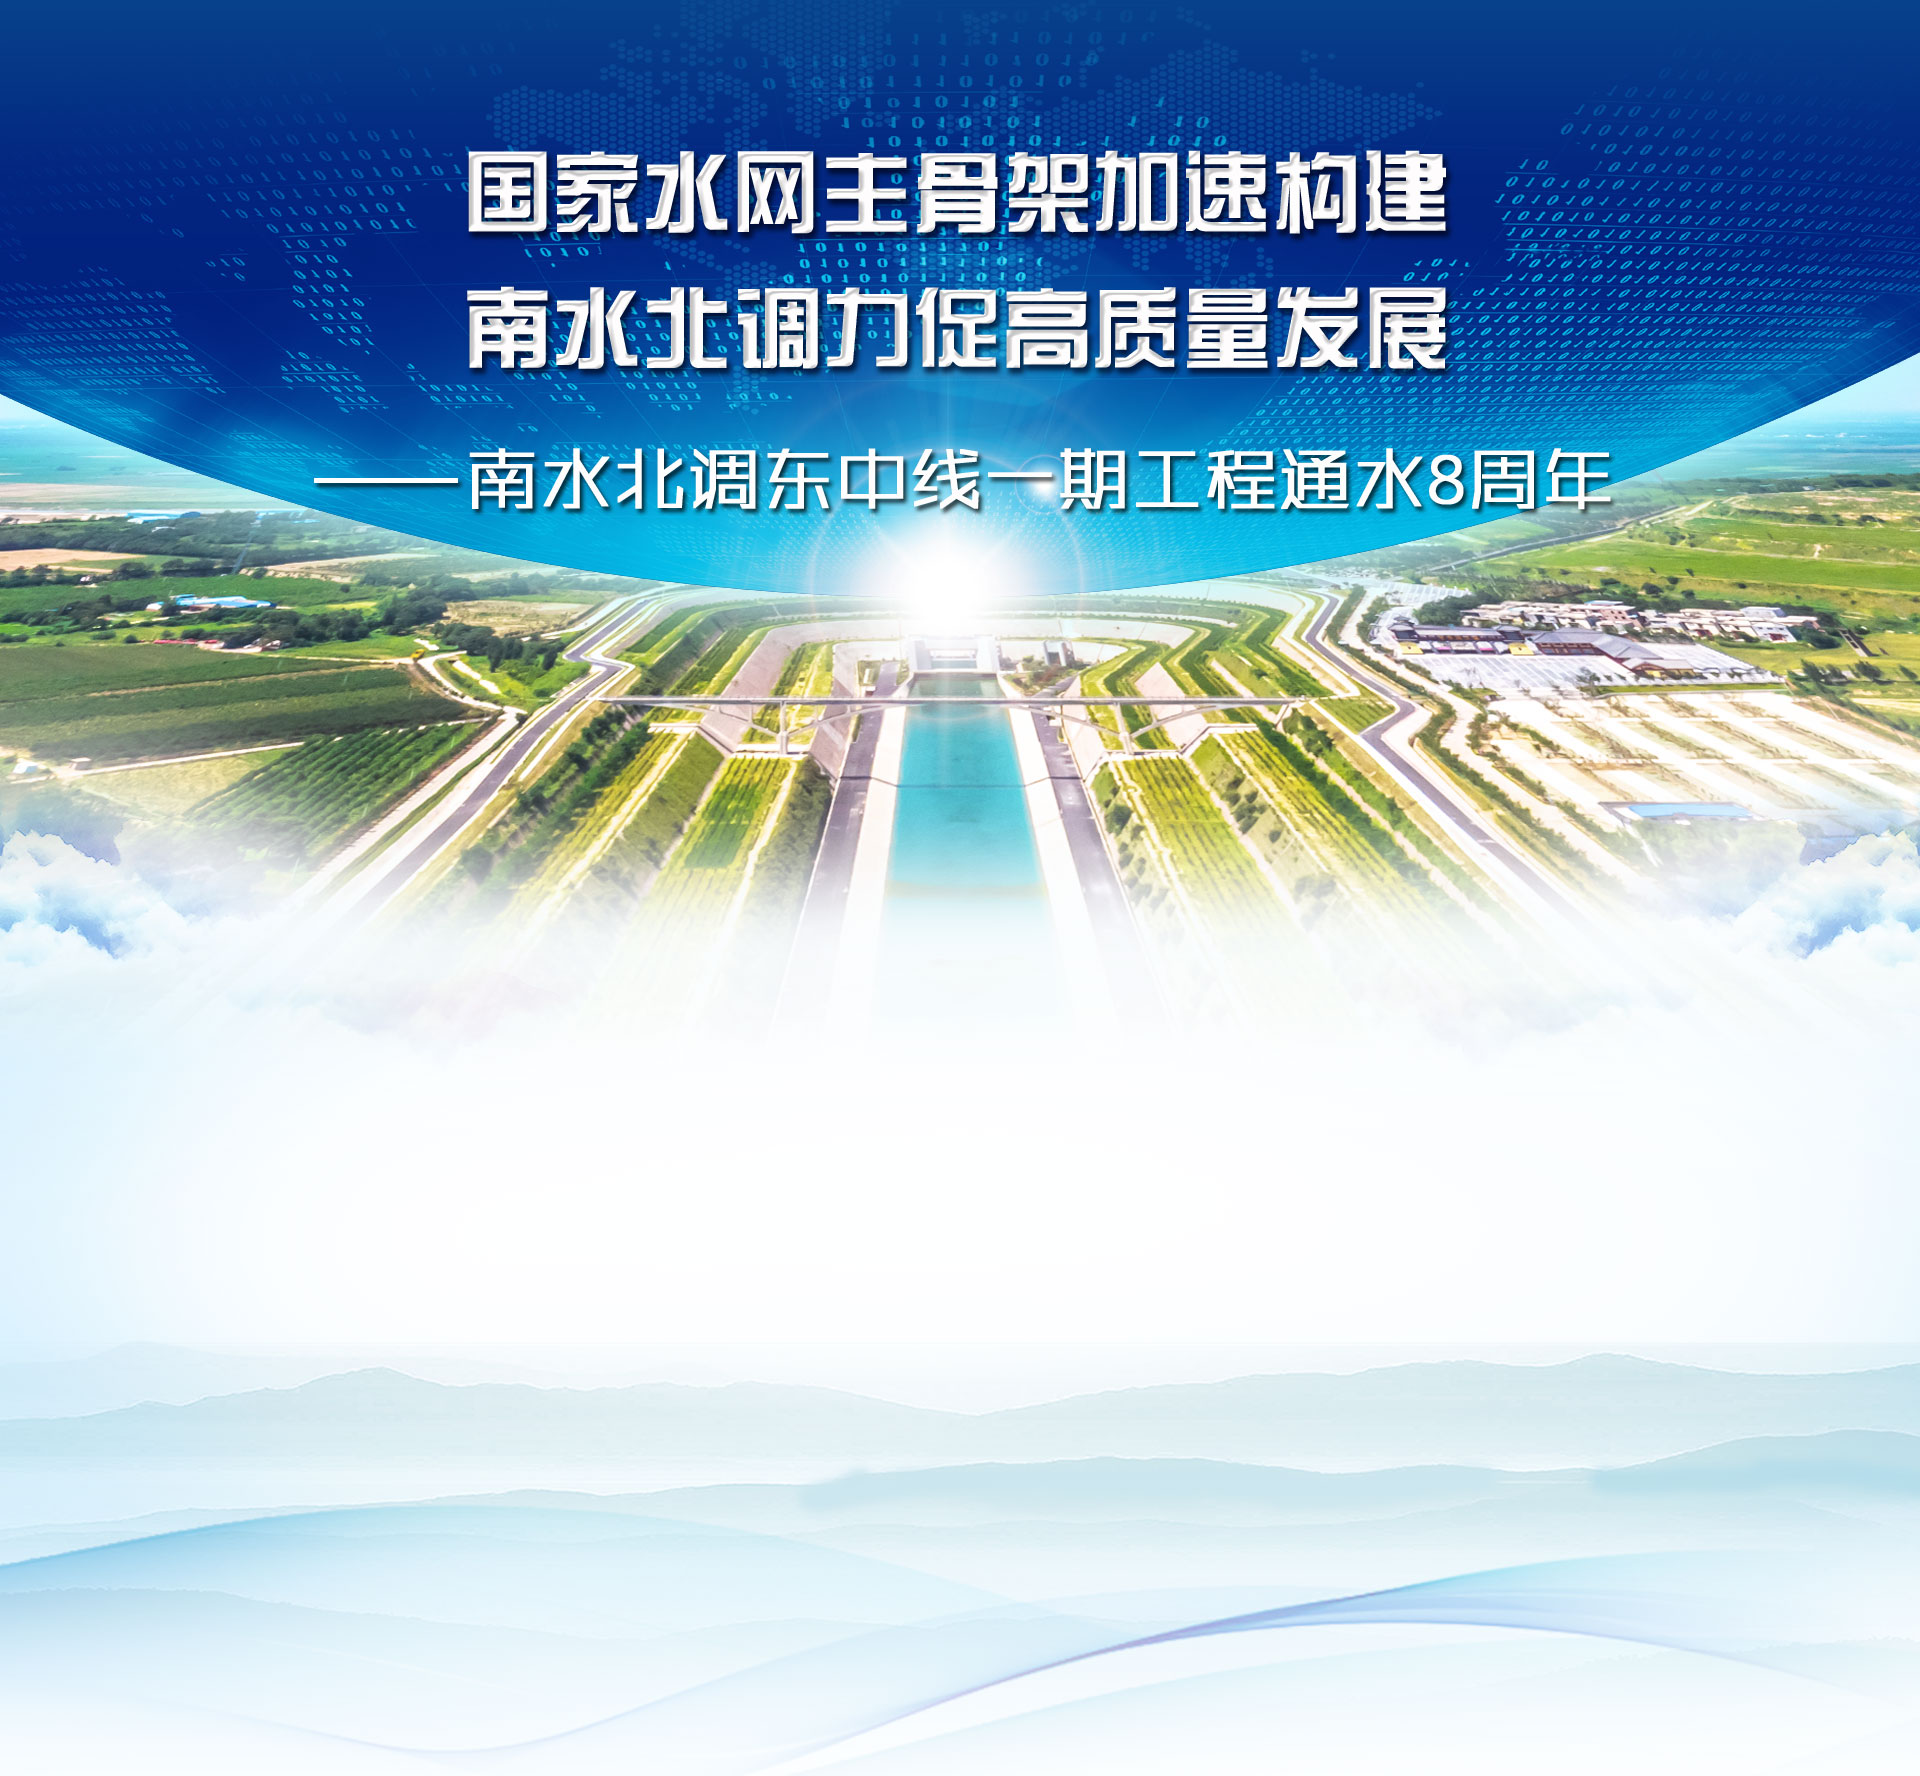
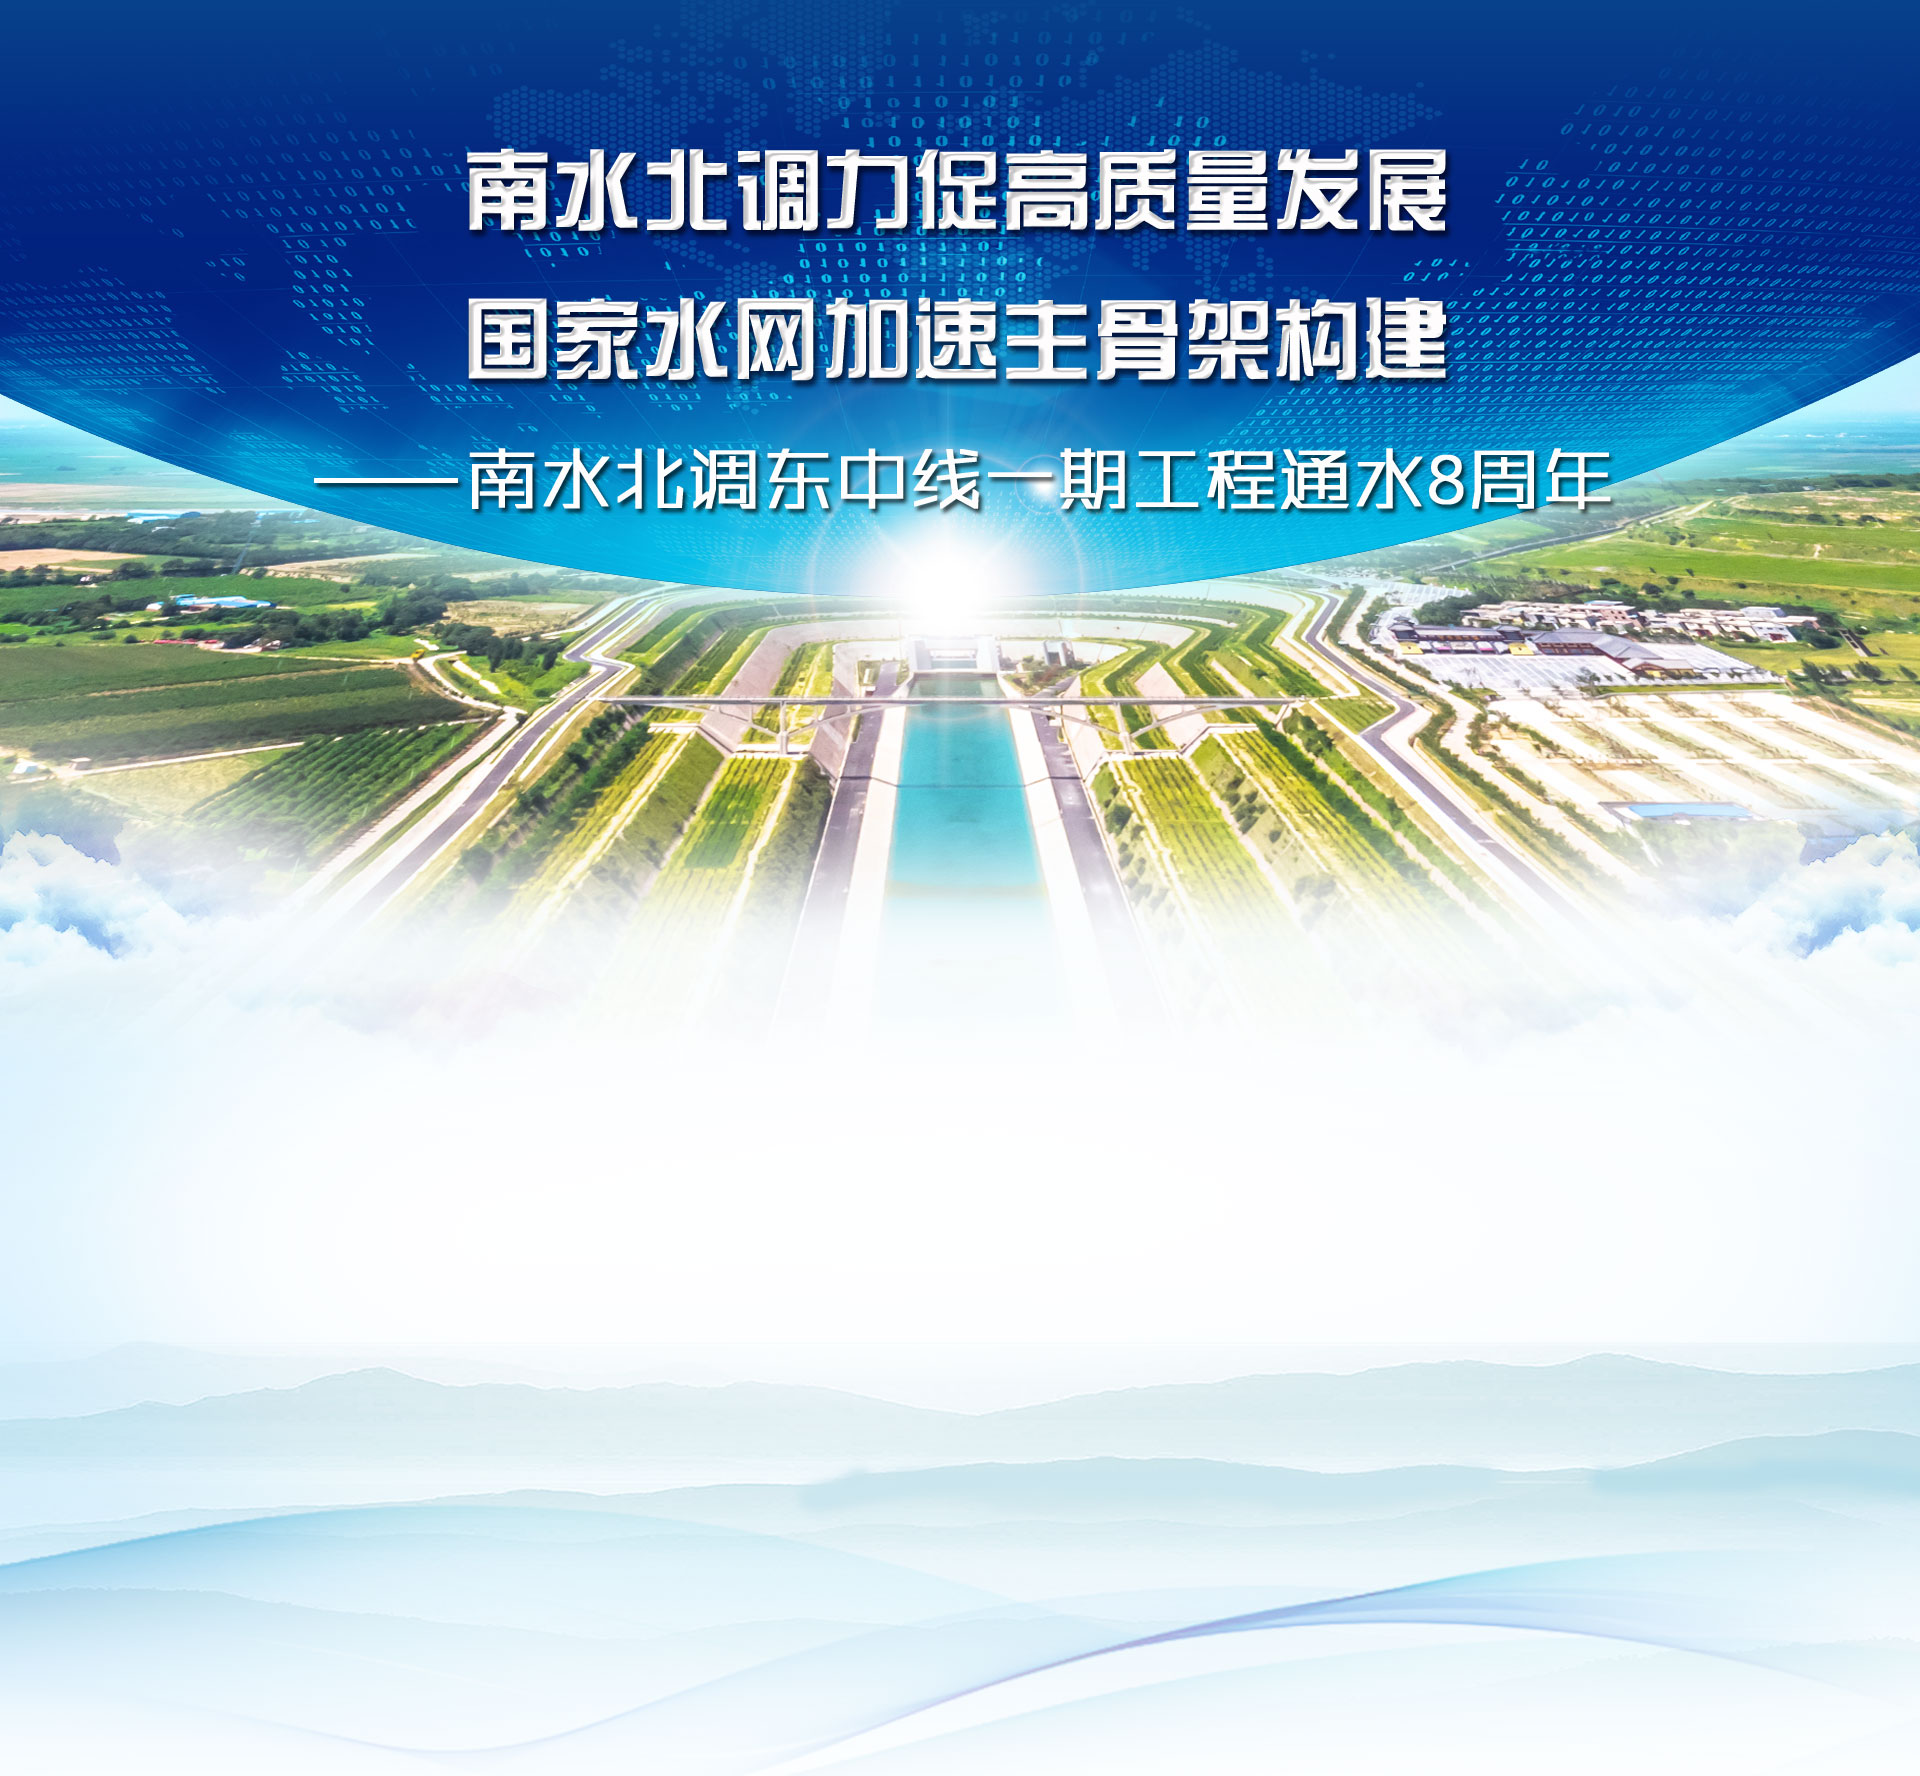
修改

Changed region(s): [[0.25, 0.0619, 0.7812, 0.2168]]

diff --git a/专题/南水北调东中线一期工程通水8周年/东中线一期8周年-index.html b/专题/南水北调东中线一期工程通水8周年/东中线一期8周年-index.html
@@ -4,7 +4,7 @@
     <meta charset="UTF-8">
     <meta http-equiv="X-UA-Compatible" content="IE=edge,chrome=1">
     <meta name="viewport" content="width=1310">
-    <title>国家水网主骨架加速构建 南水北调力促高质量发展——南水北调东中线一期工程通水8周年</title>
+    <title>南水北调力促高质量发展 国家水网加速主骨架构建——南水北调东中线一期工程通水8周年</title>
     <link rel="stylesheet" href="images_zt/normalize.css">
     <link rel="stylesheet" href="images_zt/slick.css">
     <link rel="stylesheet" href="images_zt/swiper2.7.6.css">
